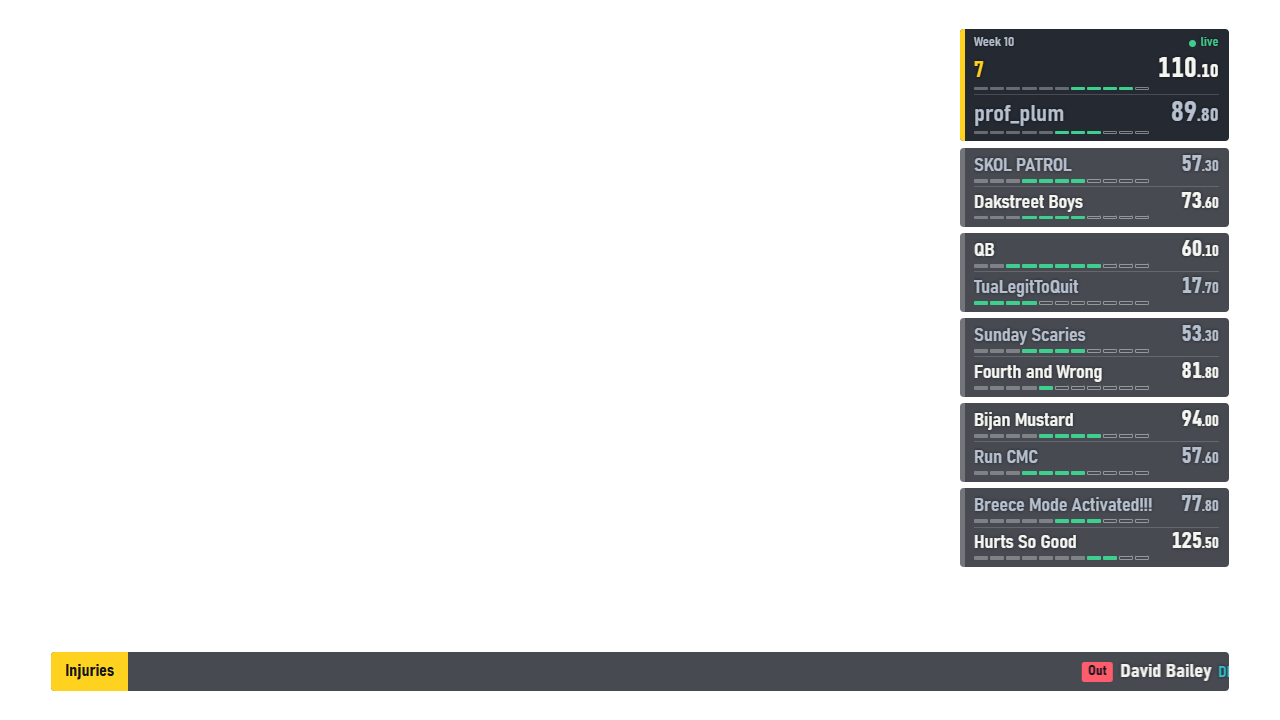
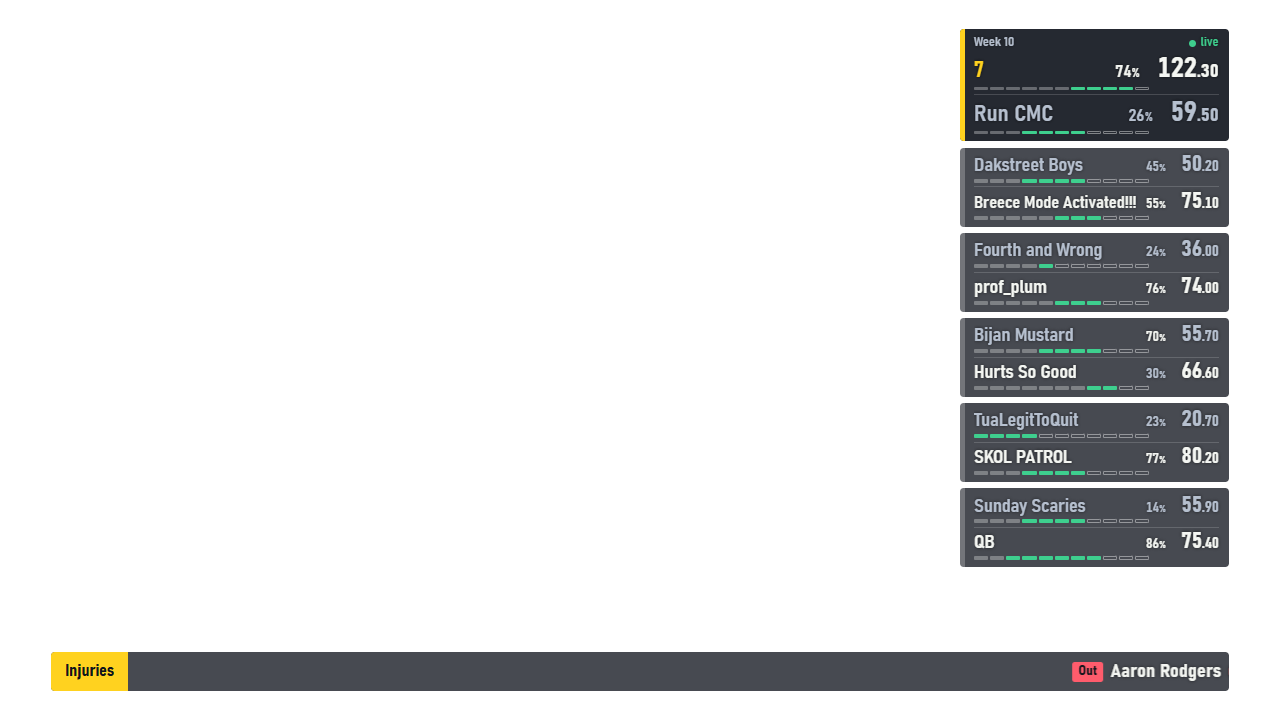
Page for War Room TV 0.2.0

diff --git a/index.html b/index.html
@@ -150,7 +150,7 @@
   <div class="brand"><img src="images/icon.png" alt=""> War Room TV</div>
 
   <h1>The league's scores, on top of the game.</h1>
-  <p class="lede">A score box for every Real Men Pretend matchup, a ticker of injuries and point leaders, and a celebration when one of your starters scores. It sits over whatever you are watching.</p>
+  <p class="lede">A score box for every Real Men Pretend matchup with each team's chance of winning, a ticker of injuries and point leaders, and a celebration when one of your starters scores. It sits over whatever you are watching.</p>
 
   <div class="get">
     <a class="button for-pc" id="download" href="https://github.com/jimling116/war-room-tv/releases/latest/download/War-Room-TV-Setup.exe">Download for Windows<small>Free &middot; 105 MB &middot; Windows 10 or 11</small></a>
@@ -169,11 +169,12 @@
     </div>
 
     <p class="dim small for-pc">No account, no sign-up. On a Mac? That version is on the way.</p>
+    <p class="dim small for-pc"><b>New in version 0.2:</b> each team's chance of winning beside its score, and your matchup player by player. Already have War Room TV? Download it again to update.</p>
   </div>
 
   <figure class="tv">
     <div class="tv-screen">
-      <img src="images/overlay.png" width="1280" height="720" alt="Six small score boxes down the right side of a football field and a strip of injury news along the bottom.">
+      <img src="images/overlay.png" width="1280" height="720" alt="Six small score boxes down the right side of a football field, each with two team scores and their chances of winning, and a strip of injury news along the bottom.">
     </div>
     <div class="tv-stand"></div>
     <figcaption class="dim small">The boxes and the strip are War Room TV. The game underneath is yours. Teams and scores here are made up.</figcaption>
@@ -231,14 +232,23 @@
     </li>
   </ol>
 
-  <h2>Four keys worth knowing</h2>
+  <h2>Five keys worth knowing</h2>
   <p class="dim">They work from anywhere, even while the game is full screen.</p>
   <ul class="keys">
     <li><kbd>Ctrl</kbd> + <kbd>Alt</kbd> + <kbd>T</kbd> &nbsp;shows a test celebration</li>
     <li><kbd>Ctrl</kbd> + <kbd>Alt</kbd> + <kbd>H</kbd> &nbsp;hides or shows everything</li>
     <li><kbd>Ctrl</kbd> + <kbd>Alt</kbd> + <kbd>M</kbd> &nbsp;mutes or unmutes</li>
     <li><kbd>Ctrl</kbd> + <kbd>Alt</kbd> + <kbd>O</kbd> &nbsp;opens settings</li>
+    <li><kbd>Ctrl</kbd> + <kbd>Alt</kbd> + <kbd>L</kbd> &nbsp;shows or hides your matchup, player by player</li>
   </ul>
+
+  <figure class="tv">
+    <div class="tv-screen">
+      <img src="images/overlay-matchup.png" width="1280" height="720" alt="The same screen with a panel on the left listing both teams' starters side by side with their points.">
+    </div>
+    <div class="tv-stand"></div>
+    <figcaption class="dim small"><kbd>Ctrl</kbd> + <kbd>Alt</kbd> + <kbd>L</kbd>: both lineups, spot by spot. A number with ~ in front is a projection for someone who has not played yet. Press it again to put it away.</figcaption>
+  </figure>
 
   <h2>If you get stuck</h2>
 
@@ -310,7 +320,7 @@
   </details>
 
   <footer class="dim small">
-    <p>Version 0.1.0. Made for the Real Men Pretend league. Not connected to the NFL, ESPN, Sleeper or any TV service.</p>
+    <p>Version 0.2.0. Made for the Real Men Pretend league. Not connected to the NFL, ESPN, Sleeper or any TV service.</p>
   </footer>
 </div>
 
